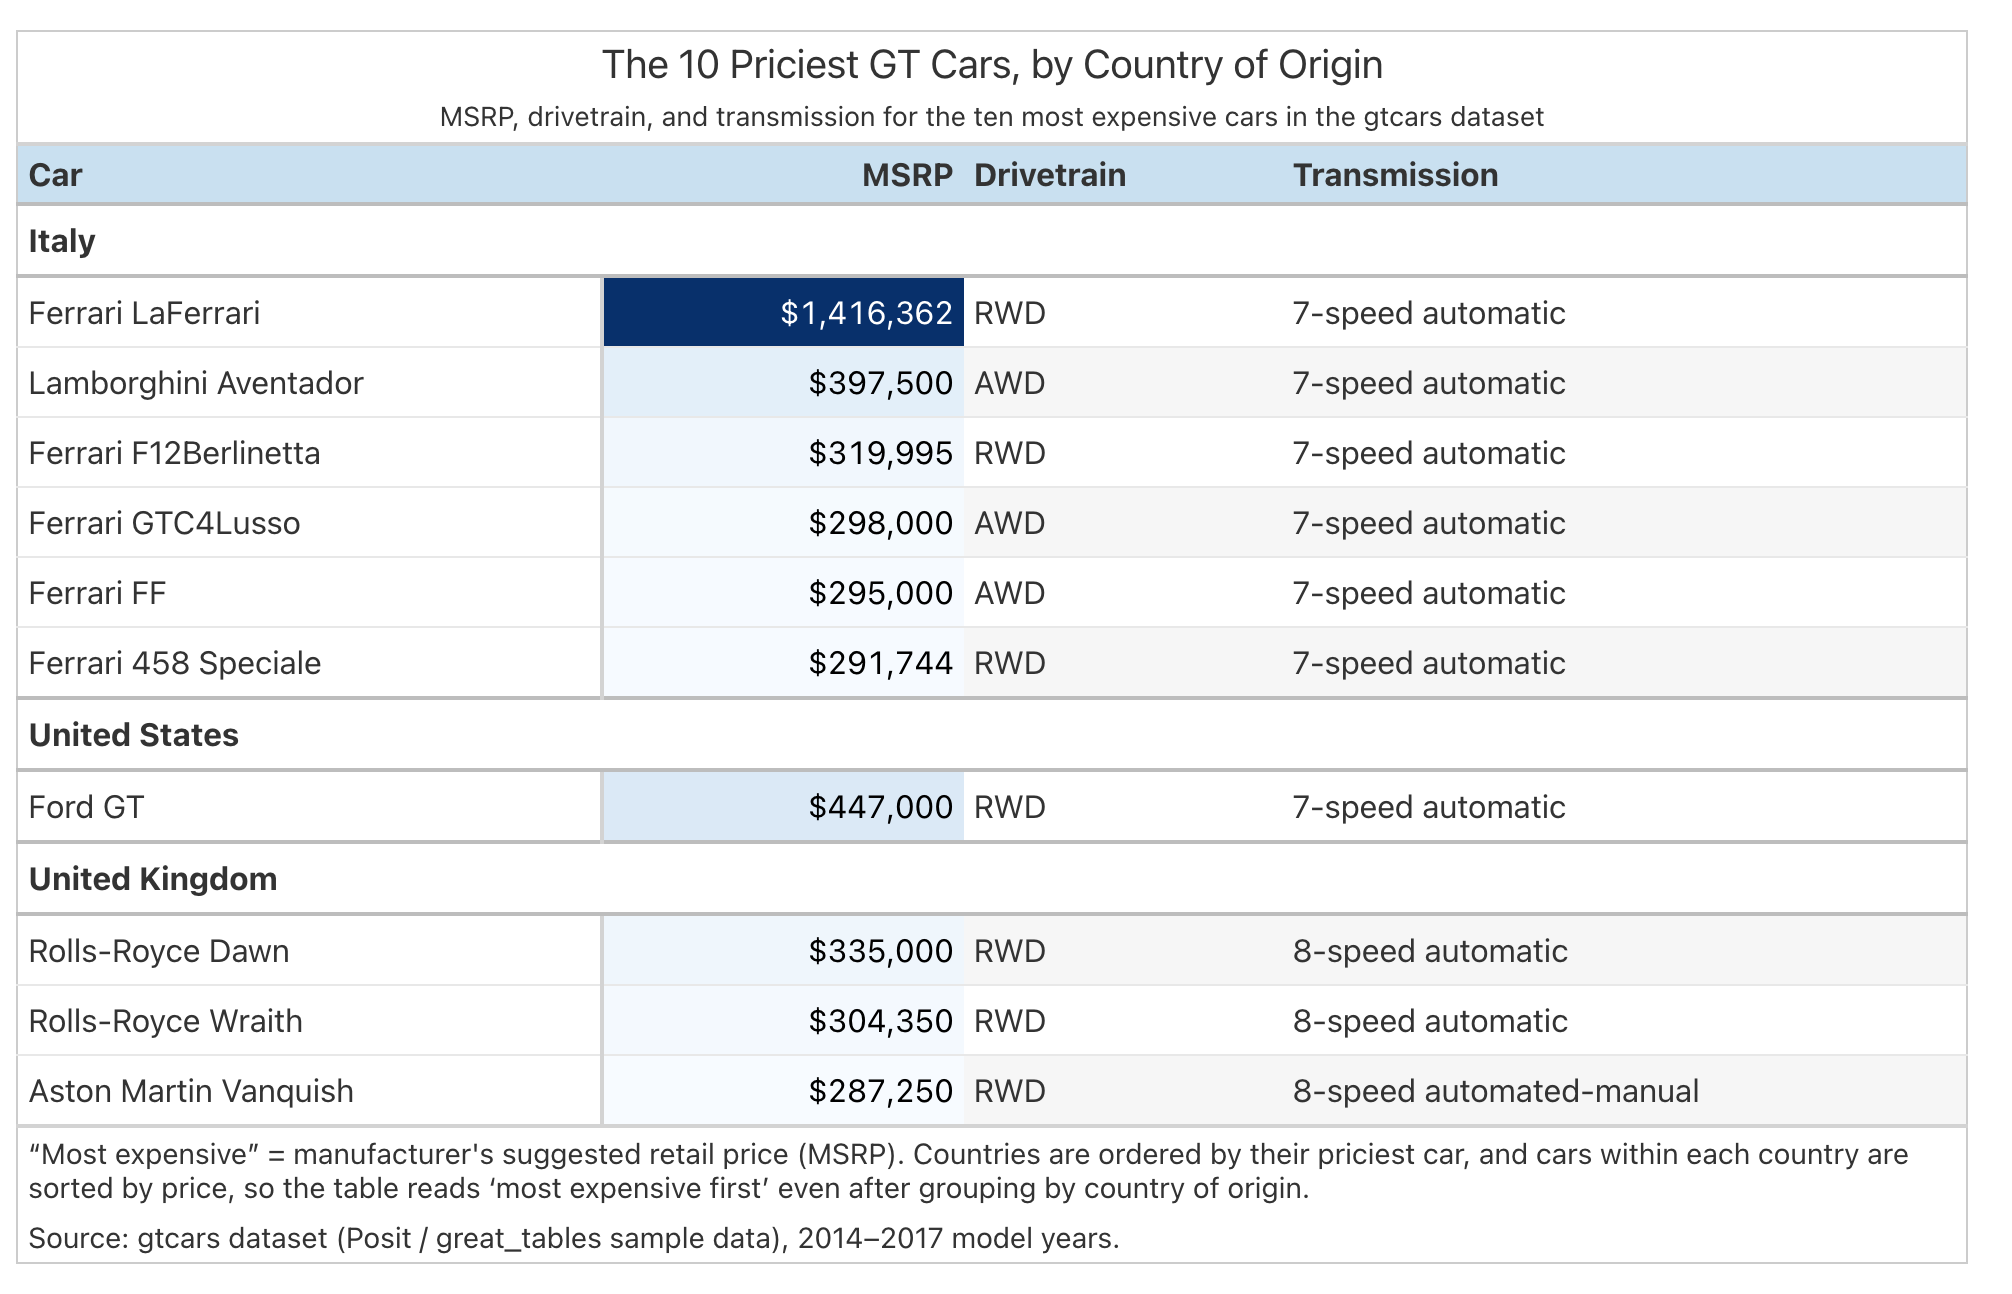
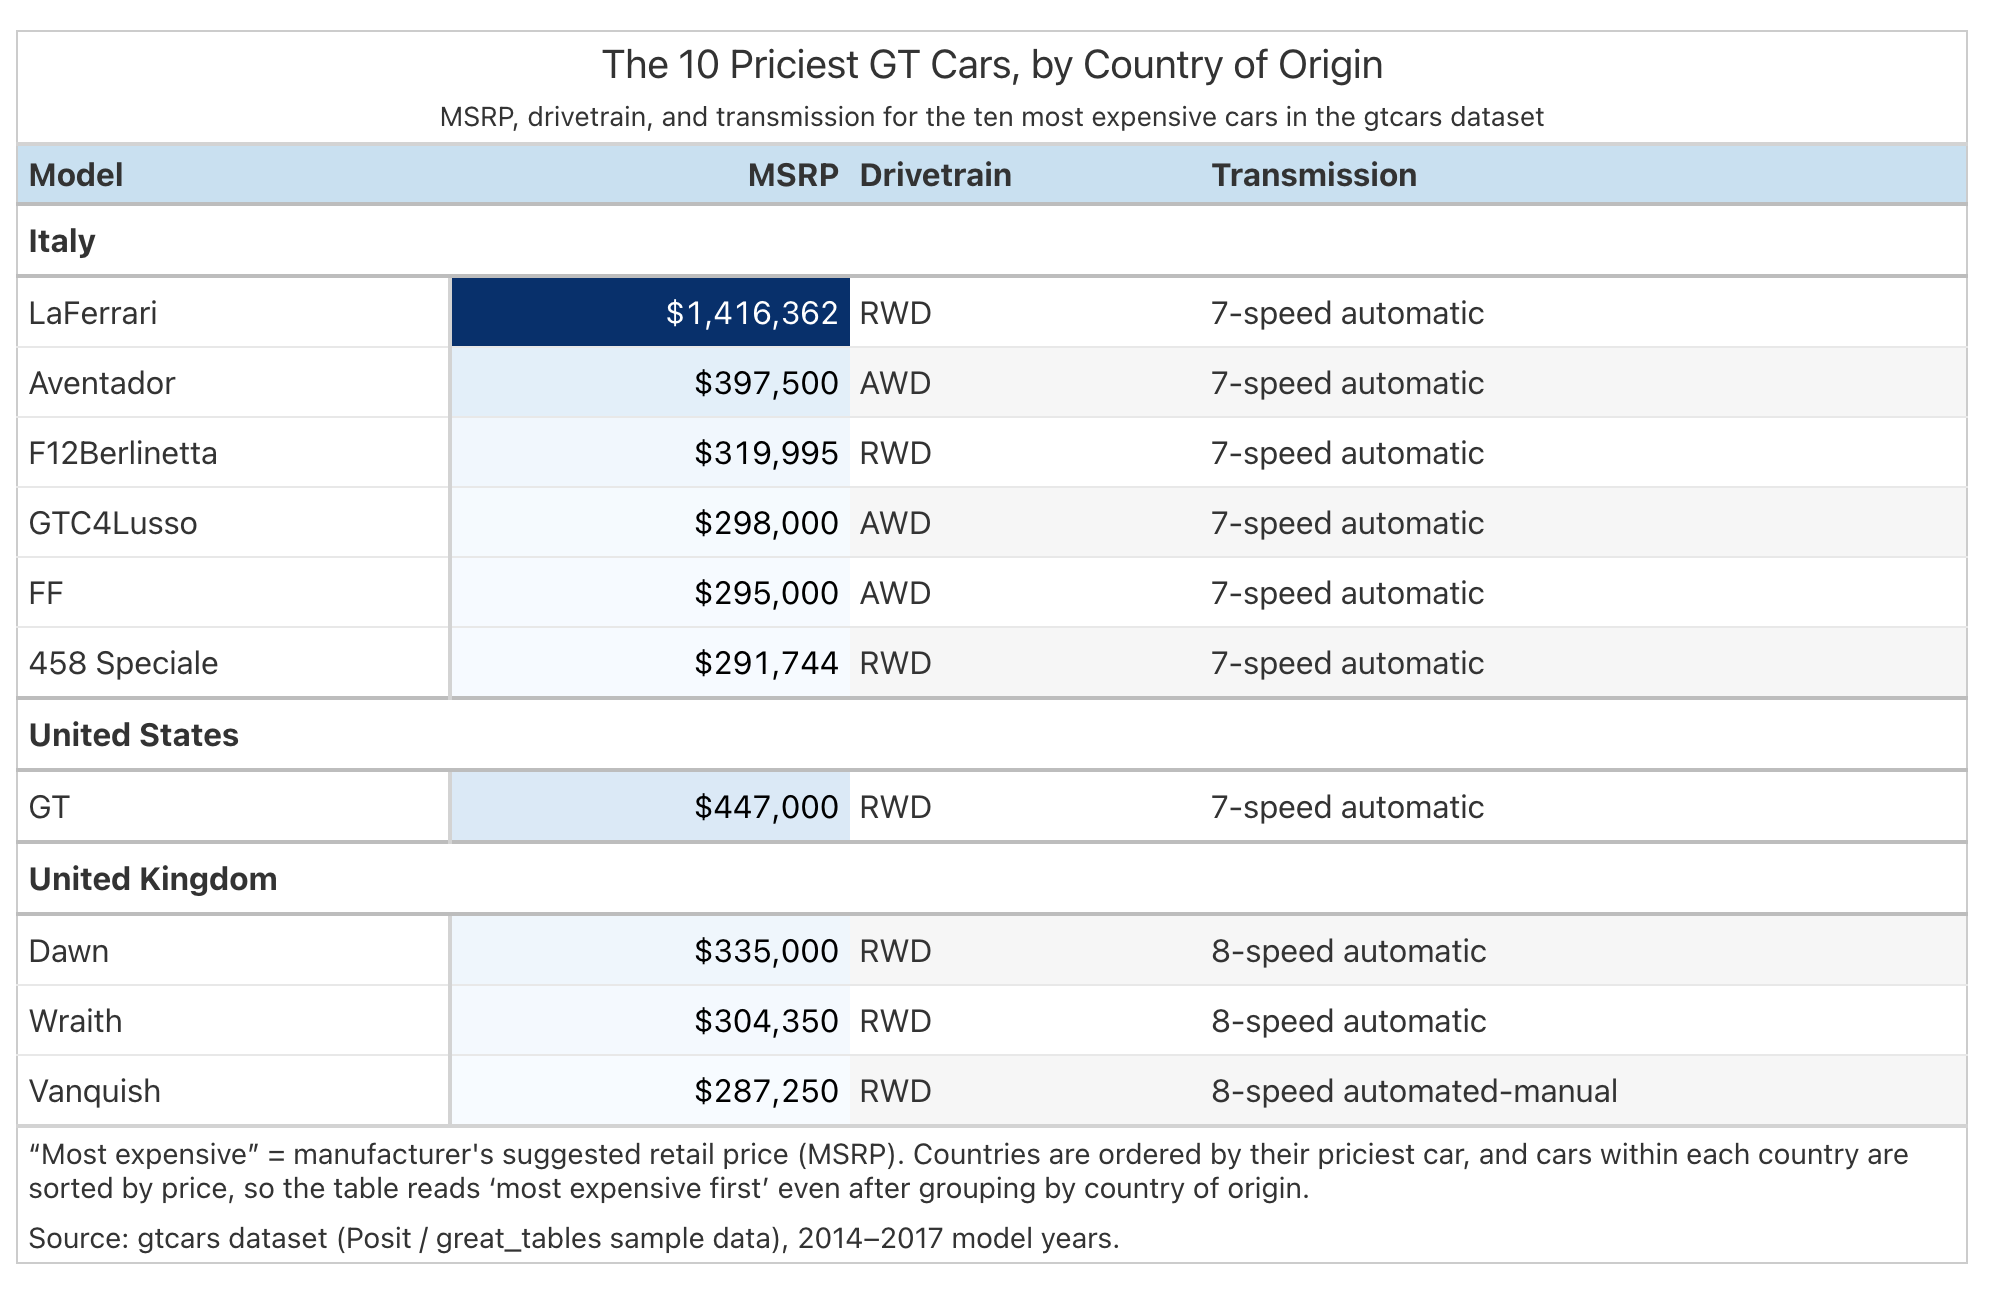
fix(ground-truth): use bare model as stub, broaden caption keywords
- Stub was mfr + " " + model (e.g. "Ferrari LaFerrari"). Verified all 10
  selected cars have unique bare model names, so switched the stub to
  the plain source `model` column -- a candidate that (more naturally)
  uses the source column directly as its own stub was previously
  false-failed on both row-selection and value-correctness, since row
  identity is compared as exact normalized strings ("LaFerrari" vs.
  "Ferrari LaFerrari" share no key).
- CAPTION_KEYWORDS required one of 3 exact phrases ("most expensive",
  "msrp", "country of origin"). Unlike towny's genuinely ambiguous
  "which growth definition" question, this dataset's "most expensive"
  has only one real metric (msrp), so a good caption doesn't need to
  restate that methodology at all. Broadened the (ANY-of-these) keyword
  list to include this specific top-10 slice's own dominant facts
  (Italy/Ferrari/Lamborghini account for 6 of 10 cars), so a genuinely
  good, data-grounded caption isn't false-failed for using different
  (equally valid) wording.

Re-rendered the PNG. Self-comparison re-verified: still 91/91 (100%).

diff --git a/prompts/medium/ground_truth/gtcars_top10_by_country.py b/prompts/medium/ground_truth/gtcars_top10_by_country.py
@@ -33,7 +33,7 @@ _ROOT = _HERE.parent.parent.parent
 
 # Acceptable label synonyms per underlying data column. Wording is free;
 # the label just has to name the right concept. Keys are the SOURCE CSV
-# column name(s) the label is standing in for. The stub (car) and the
+# column name(s) the label is standing in for. The stub (model) and the
 # group (ctry_origin) aren't rendered through cols_label, so they have no
 # entry here -- LABEL_SYNONYMS only covers ordinary body columns.
 LABEL_SYNONYMS = {
@@ -63,8 +63,20 @@ REQUIRED_INSTRUCTIONS = {
 }
 
 # Keyword-presence check for the caption/subtitle overlap rule (see §9).
+# `caption_should_mention` is an ANY-of-these match (see comparator.py's
+# check_caption_not_restating_subtitle) -- unlike towny's genuinely
+# ambiguous "which growth definition" question, "most expensive" here has
+# only one real candidate metric (msrp), so a compliant caption need not
+# restate that methodology at all to be a good, non-duplicative takeaway.
+# Broadened well beyond the original 3 phrases to include this specific
+# top-10 slice's own dominant facts (Italy/Ferrari/Lamborghini account for
+# 6 of the 10 cars) -- any reasonable, data-grounded insight will mention
+# at least one of a country, a specific car, or the ranking concept.
 CAPTION_KEYWORDS = {
-    "caption_should_mention": ["most expensive", "msrp", "country of origin"],
+    "caption_should_mention": [
+        "most expensive", "msrp", "country of origin",
+        "italy", "italian", "ferrari", "lamborghini", "laferrari",
+    ],
     "subtitle_should_not_duplicate": ["ordered by their priciest car", "sorted by price"],
 }
 
@@ -104,7 +116,6 @@ TRANSMISSION_LABELS = {
 }
 top["trsmn"] = top["trsmn"].map(TRANSMISSION_LABELS).fillna(top["trsmn"])
 top["drivetrain"] = top["drivetrain"].str.upper()
-top["car"] = top["mfr"] + " " + top["model"]
 
 # "Grouped by country of origin" -- countries are ordered by their OWN
 # priciest car (Italy's LaFerrari > the US's Ford GT > the UK's Rolls-Royce
@@ -117,21 +128,26 @@ top = (
     top.assign(_group_rank=group_rank)
        .sort_values(["_group_rank", "msrp"], ascending=[False, False])
        .drop(columns="_group_rank")
-       .loc[:, ["car", "ctry_origin", "msrp", "drivetrain", "trsmn"]]
+       .loc[:, ["model", "ctry_origin", "msrp", "drivetrain", "trsmn"]]
        .reset_index(drop=True)
 )
+# Stub = bare `model`, not `mfr + model` -- verified unique across all 10
+# selected cars (no collisions in this specific top-10 slice). A candidate
+# using the source `model` column directly as its own stub (the more
+# obvious, "just use the source column" choice) must not be penalized for
+# not matching a synthesized concatenation this ground truth doesn't need.
 
 msrp_lo = float(top["msrp"].min())
 msrp_hi = float(top["msrp"].max())
 
 # ---- Table -----------------------------------------------------------------
 gt = (
-    GT(top, rowname_col="car", groupname_col="ctry_origin")
+    GT(top, rowname_col="model", groupname_col="ctry_origin")
     .tab_header(
         title="The 10 Priciest GT Cars, by Country of Origin",
         subtitle="MSRP, drivetrain, and transmission for the ten most expensive cars in the gtcars dataset",
     )
-    .tab_stubhead(label="Car")
+    .tab_stubhead(label="Model")
     .cols_label(msrp="MSRP", drivetrain="Drivetrain", trsmn="Transmission")
     .fmt_currency(columns=["msrp"], decimals=0)
     # Big Color 1/1 (well under the 2-measure ceiling): msrp is the literal
